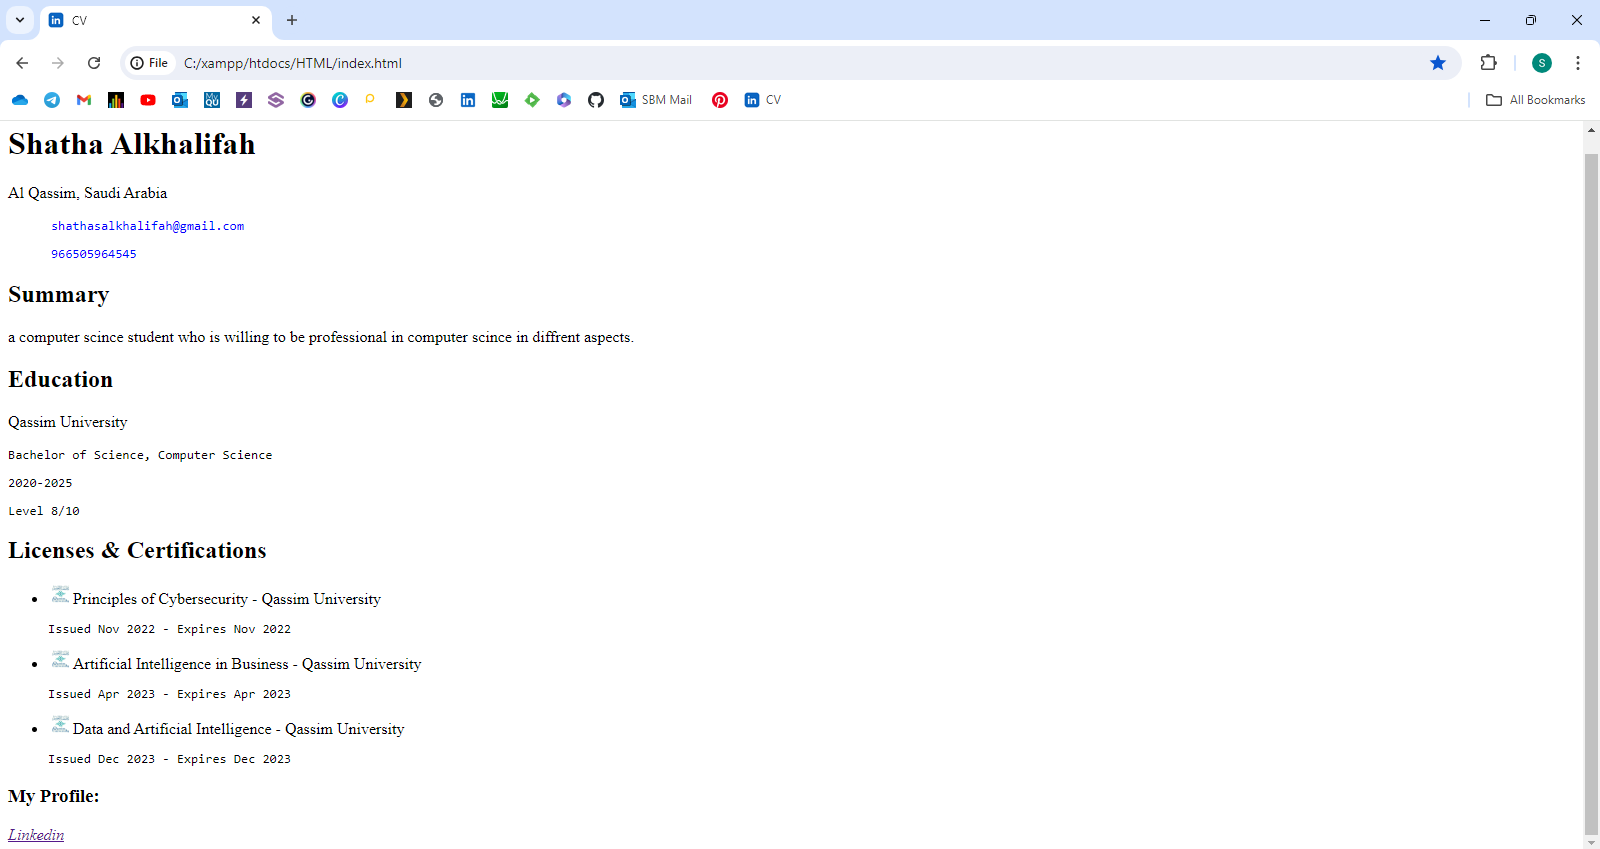
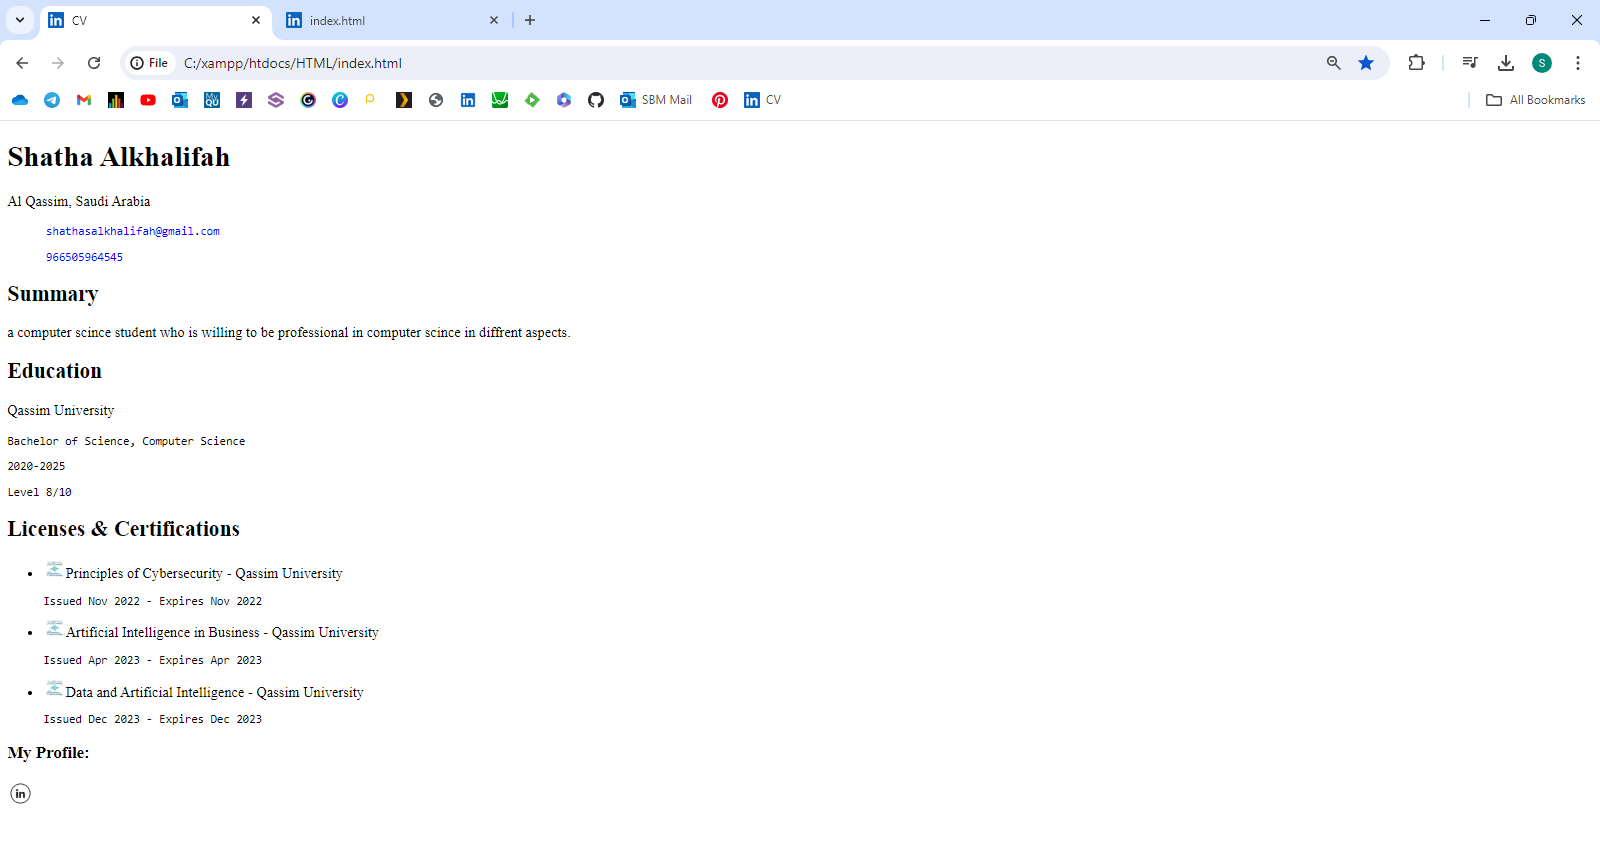
Add files via upload

diff --git a/index.html b/index.html
@@ -39,6 +39,6 @@
 </ul>
 </div>
 <h3>My Profile:</h3> 
-<a href="https://www.linkedin.com/in/shatha-alkhalifah-9419a3230?lipi=urn%3Ali%3Apage%3Ad_flagship3_profile_view_base_contact_details%3BKmFqowi1QwmlK2ZVIaJIPA%3D%3D"><i class="material-icons">Linkedin</i></a>
+<a href="https://www.linkedin.com/in/shatha-alkhalifah-9419a3230?lipi=urn%3Ali%3Apage%3Ad_flagship3_profile_view_base_contact_details%3BKmFqowi1QwmlK2ZVIaJIPA%3D%3D"><img src="img/linkedinicon.png" width="30"height="30" ></a>
 </body>
 </html>
